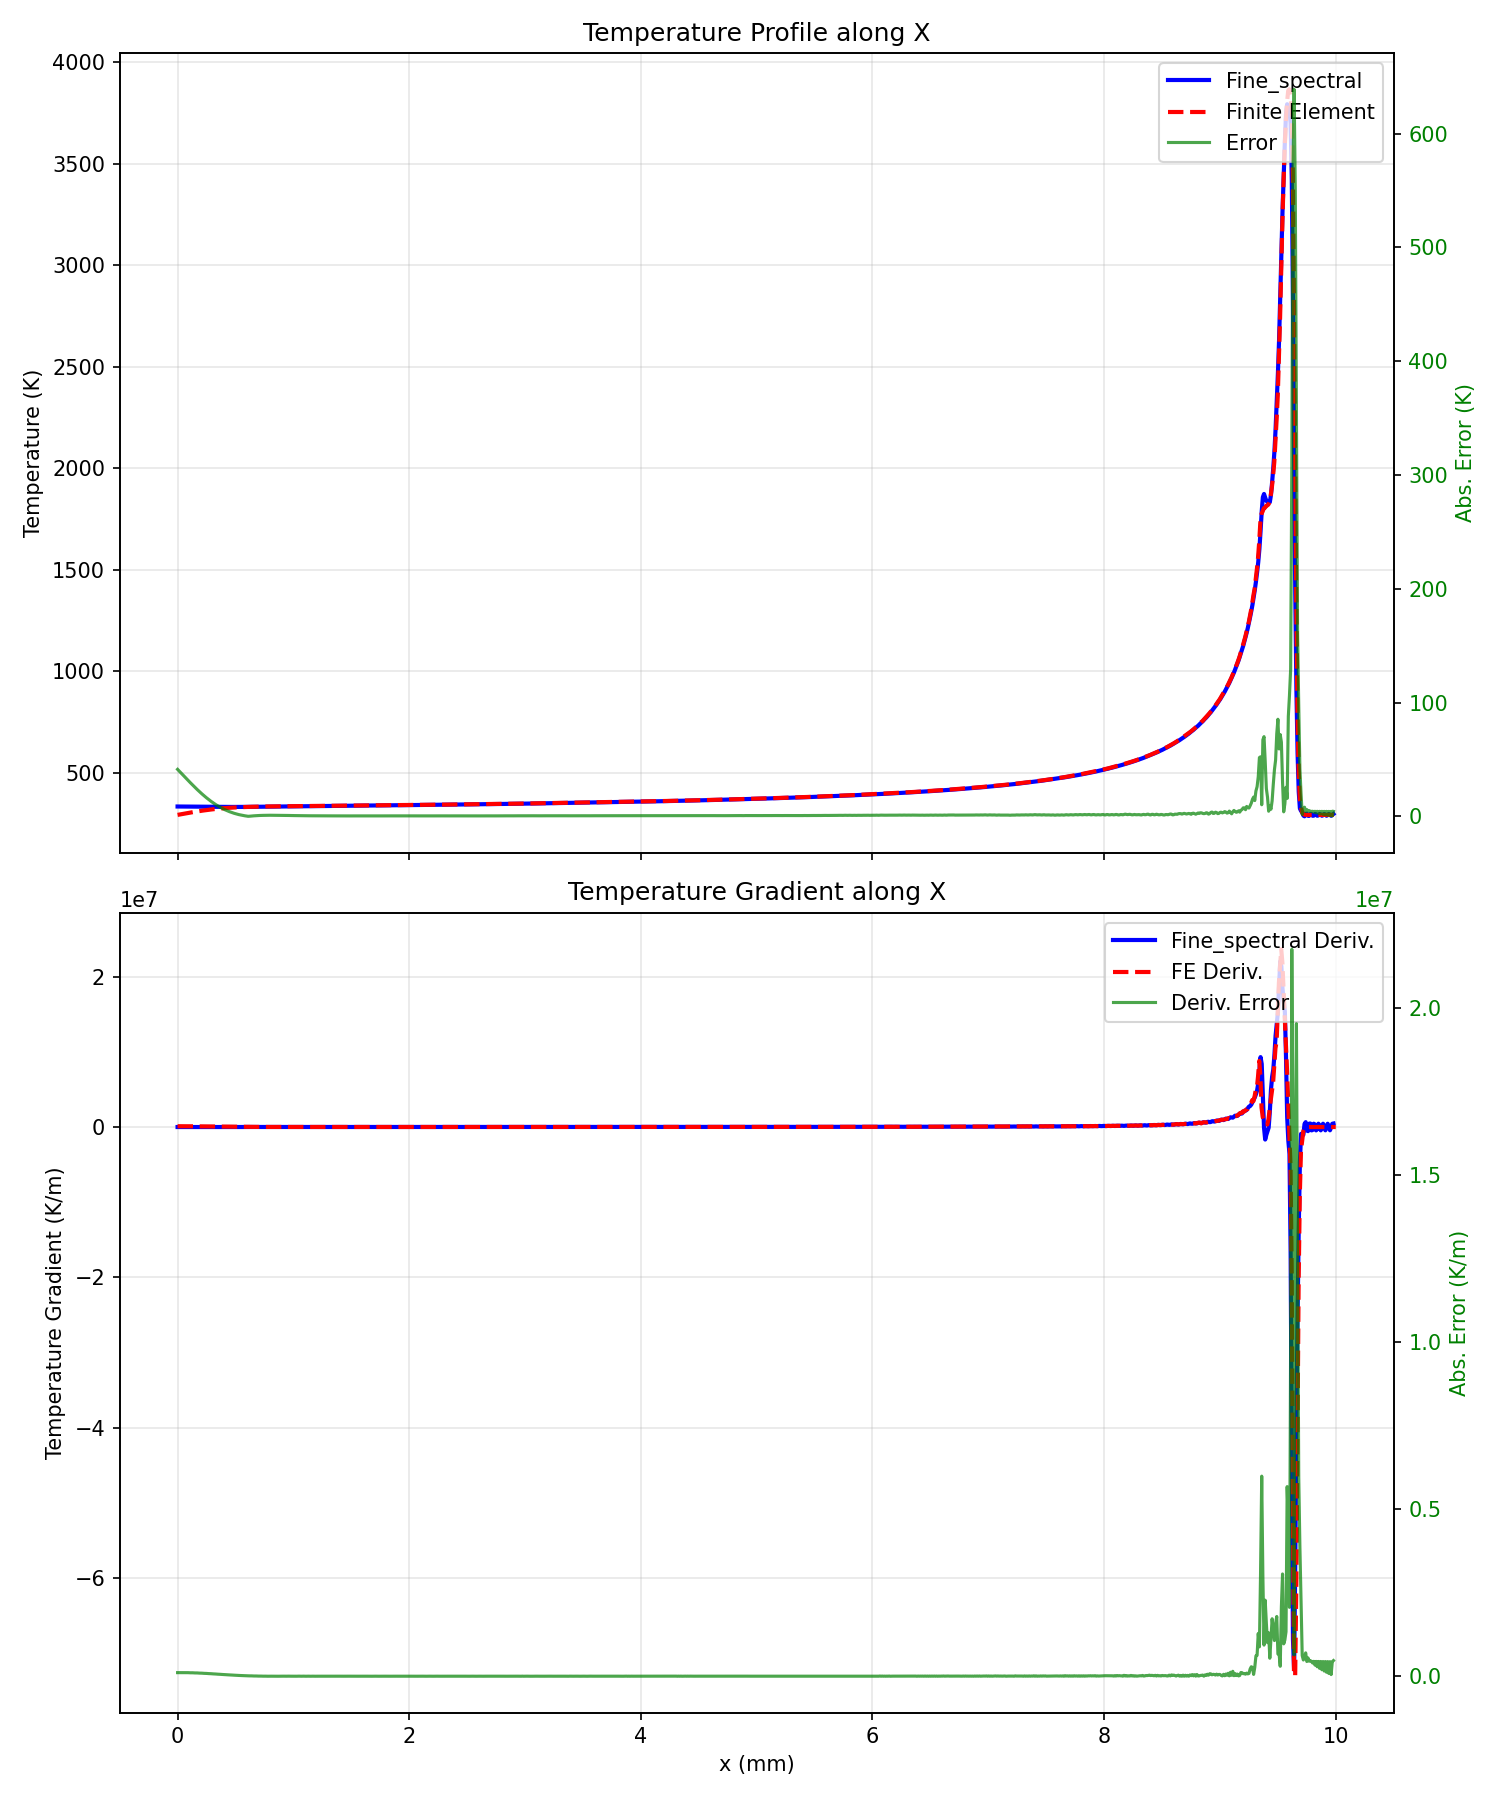
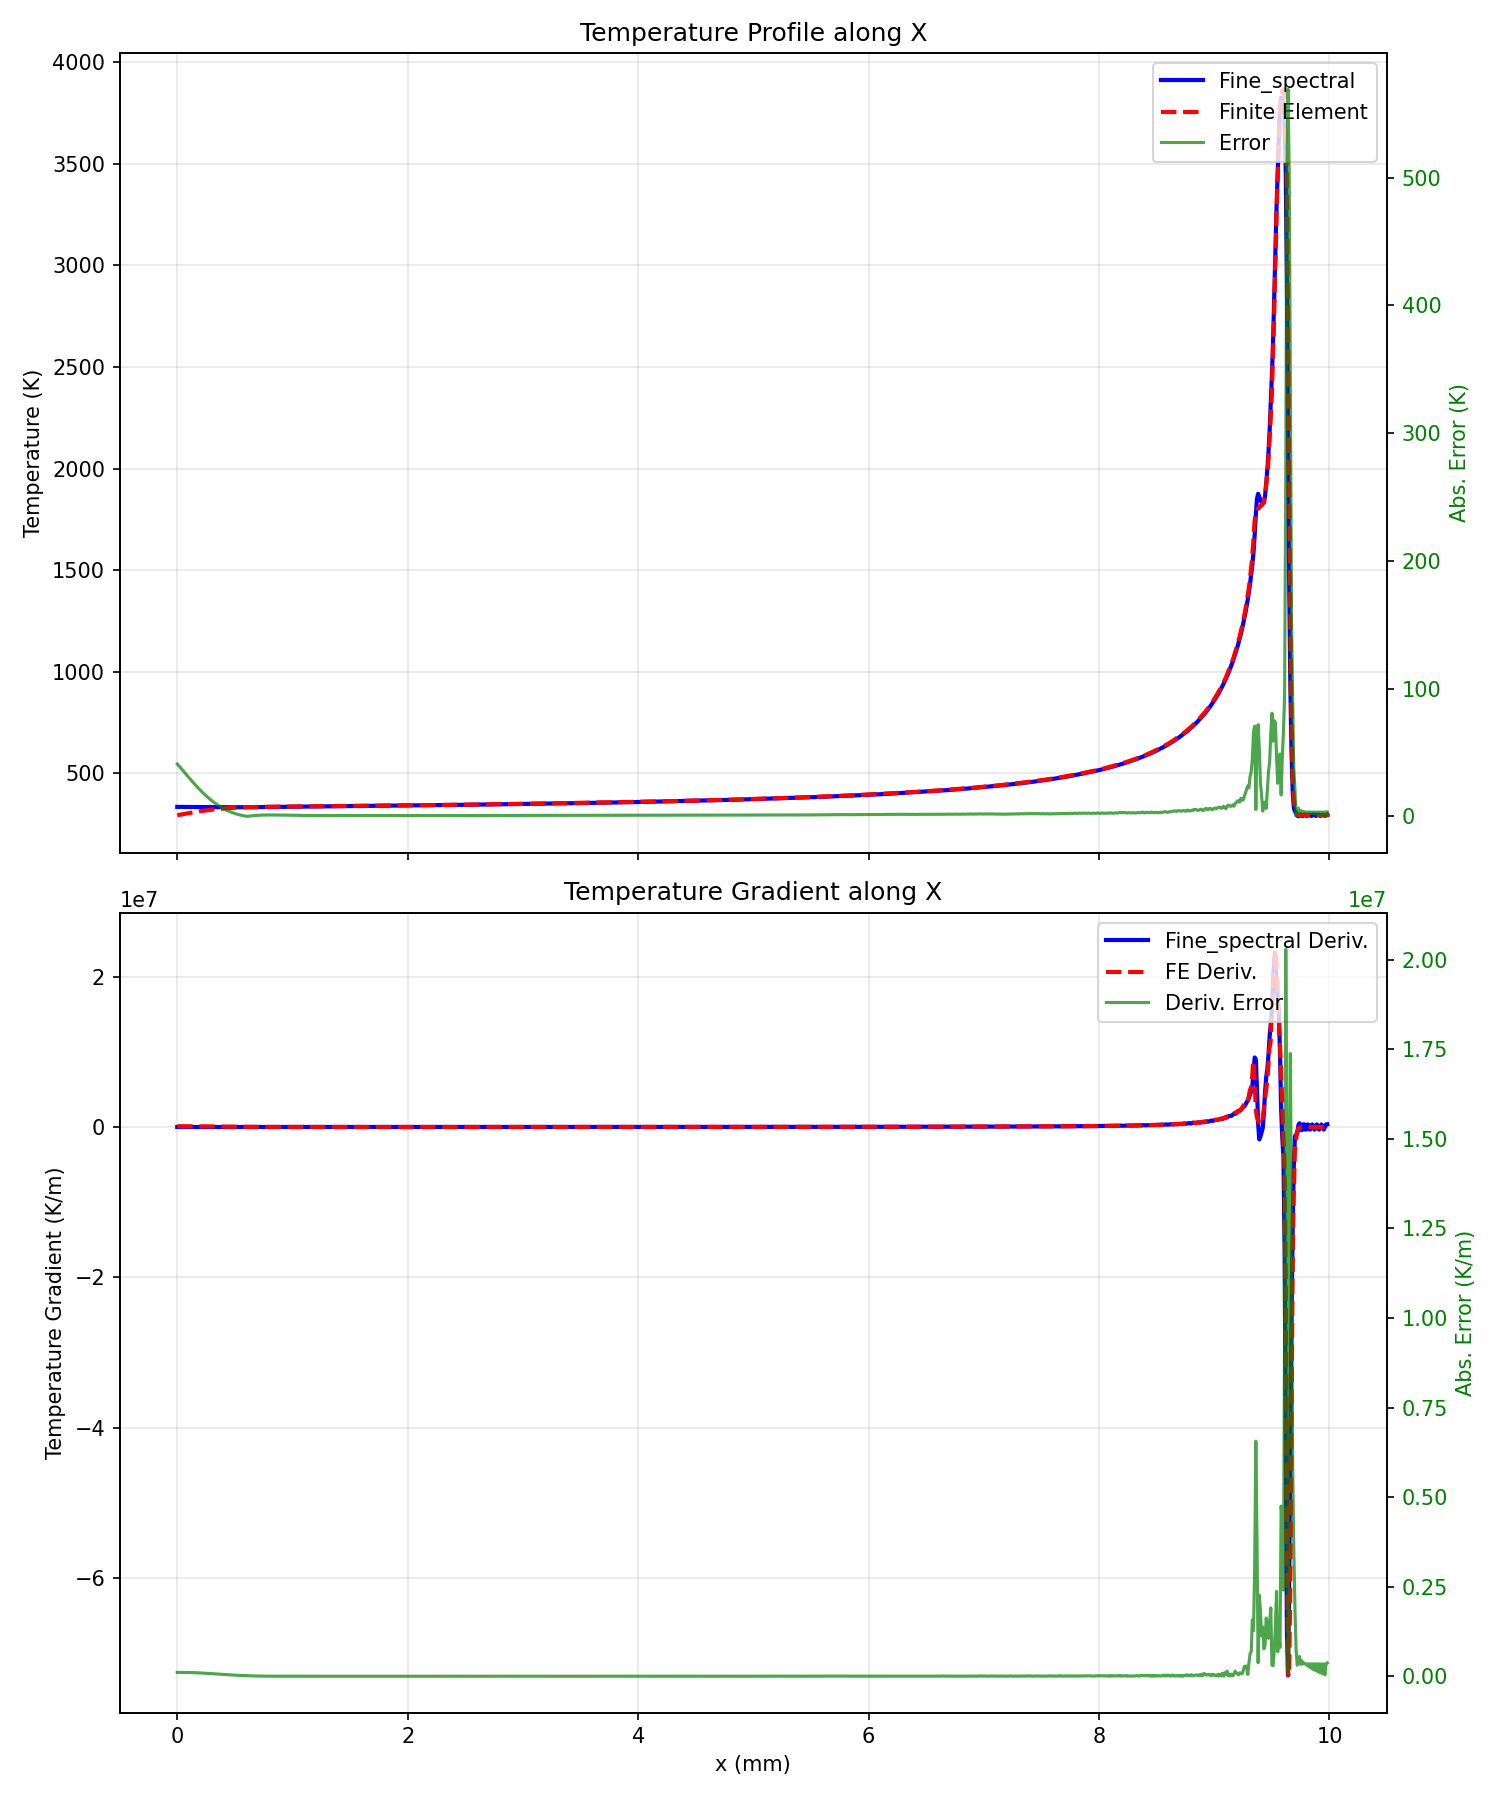
changed save temp

diff --git a/helpers.py b/helpers.py
@@ -499,88 +499,79 @@ def save_temp_profiles(a, num, geom, phys, laser, t=None, center="laser"):
     """
     Save 1D temperature profiles intersecting at the specified center.
     Coordinates generated start at 0.0 (aligned with save_temp_profiles_fine).
+    Using explicit tensor contraction for speed.
     """
     t = num.t_final if t is None else t
     
-    # 1. Determine Center Coordinates
+    # 1. Coordinate Arrays (Explicit float64 for safety)
+    x_line = np.linspace(0.0, geom.Lx, num.nx, dtype=np.float64)
+    y_line = np.linspace(0.0, geom.Ly, num.ny, dtype=np.float64)
+    z_line = np.linspace(0.0, geom.Lz, num.nz, dtype=np.float64)
+
+    # 2. Determine Center Coordinates
     if center == "hotspot":
-        # We need a rough estimate, fast reconstruction of top
-        T_top = reconstruct_temperature_top(a, num, geom)
-        iy_idx, ix_idx = np.unravel_index(np.argmax(T_top), T_top.shape)
-        # Convert index to coordinate (cell centers roughly or explicit)
-        x_center = geom.x[ix_idx] if hasattr(geom, 'x') else (ix_idx + 0.5) * geom.dx
-        y_center = geom.y[iy_idx] if hasattr(geom, 'y') else (iy_idx + 0.5) * geom.dy
+        # Simplified: Fallback to center of domain if hotspot logic not robust without full reconstruct
+        # Ideally would scan low-res modes, but let's stick to laser or center-of-domain
+         x_center, y_center = 0.5 * geom.Lx, 0.5 * geom.Ly
     elif center == "laser":
         x_center, y_center = float(laser.x), float(laser.y)
     else:
-        raise ValueError(f"Unknown center option: {center}")
+        # Fallback for manual coords if passed as tuple?
+        if isinstance(center, (tuple, list, np.ndarray)):
+            x_center, y_center = float(center[0]), float(center[1])
+        else:
+            raise ValueError(f"Unknown center option: {center}")
 
-    # For z_center, we usually take the top surface z=0 (or geom.z[-1] if z is depth?)
-    # Assuming z goes 0..Lz (bottom to top? or top to bottom?). 
-    # Usually laser is at top. Let's find z index closest to top or use 0 if surface.
-    # Standard assumption here: surface is at top? Or z=0 is top?
-    # Based on earlier code, we usually plot vs z. We need to find the z-profile at (x_c, y_c).
-    # We will compute the profile along Z, so we don't need a z_center for the Z-plot.
-    # For X and Y plots, we take z_top.
-    z_coords = np.linspace(0.0, geom.Lz, num.nz)
-    z_top = z_coords[-1] # Assume top is last index, or use z=0? 
-    # Check physics: usually Z is depth or height. If laser is on surface.
-    # Let's assume z at local max abs coordinate is surface.
-    
-    # 2. Linear Coordinates starting at 0 (Node-based for plotting)
-    # matching the resolution
-    x_line = np.linspace(0.0, geom.Lx, num.nx)
-    y_line = np.linspace(0.0, geom.Ly, num.ny)
-    z_line = np.linspace(0.0, geom.Lz, num.nz)
+    # Determine Z level for X/Y cuts
+    # Assuming laser source is at z=0 (based on box_z used in latent heat)
+    z_top = 0.0 
 
     # 3. Helpers for Basis Evaluation
-    def eval_basis(N, L, vals):
-        # (N, len(vals))
+    def eval_cos(N, L, vals):
+        """Evaluate cos(k*pi*x/L) for all k=0..N-1 and given vals."""
+        # ids shape: (N, 1)
         ids = np.arange(N, dtype=np.float64)[:, None]
+        # vals shape: (1, M)
+        # Returns (N, M)
         return np.cos(np.pi * ids * vals[None, :] / L)
 
-    # Precompute scalars for the fixed axes
-    # Basis vectors at center point (N,)
-    phi_x_c = eval_basis(num.nx, geom.Lx, np.array([x_center])).flatten() # (nx,)
-    phi_y_c = eval_basis(num.ny, geom.Ly, np.array([y_center])).flatten() # (ny,)
-    phi_z_c = eval_basis(num.nz, geom.Lz, np.array([z_top])).flatten()    # (nz,)
+    # Precompute basis vectors at intersection point (x_c, y_c, z_c)
+    # Shapes: (Nx,), (Ny,), (Nz,)
+    phi_x_c = eval_cos(num.nx, geom.Lx, np.array([x_center], dtype=np.float64)).flatten()
+    phi_y_c = eval_cos(num.ny, geom.Ly, np.array([y_center], dtype=np.float64)).flatten()
+    phi_z_c = eval_cos(num.nz, geom.Lz, np.array([z_top], dtype=np.float64)).flatten()
 
-    # Normalize coefficients C (apply them to the phi vectors for dotting)
-    # This prepares the specific 1D slice kernels
-    # C coefficients are: geom.Cm, geom.Cn, geom.Cp
+    # Pre-multiply by Normalization Coefficients C_k
+    # Effective projection vector K = C_k * phi_c
     Kx_c = phi_x_c * geom.Cm
     Ky_c = phi_y_c * geom.Cn
     Kz_c = phi_z_c * geom.Cp
 
-    # --- X Profile (y=y_c, z=z_top) ---
-    # Contract Y and Z
-    # T(x) = sum_m (sum_n sum_p a[p,n,m] * Kz[p] * Ky[n]) * phi_m(x) * Cm[m]
-    # Contract Z first: a (nz, ny, nx) . Kz (nz) -> (ny, nx)
+    # --- X Profile ( at y=y_c, z=z_top ) ---
+    # T(x) = sum_m [ sum_n sum_p a_pnm * Kz_p * Ky_n ] * (Cm_m * cos_m(x))
+    # 1. Contract Z (axis 0 of a): Result (ny, nx)
     a_yx = np.tensordot(a, Kz_c, axes=(0, 0)) 
-    # Contract Y: (ny, nx) . Ky (ny) -> (nx)
-    a_x = np.dot(Ky_c, a_yx) 
-    # Evaluate along line
-    # Basis for line: (nx, nx_points)
-    Bx_line = eval_basis(num.nx, geom.Lx, x_line)
-    # T_x = (a_x * Cm) @ Bx_line
+    # 2. Contract Y (axis 0 of a_yx): Result (nx,)
+    a_x = np.dot(Ky_c, a_yx)
+    # 3. Evaluate along line
+    Bx_line = eval_cos(num.nx, geom.Lx, x_line) # (nx, points)
     T_x = (a_x * geom.Cm) @ Bx_line
 
-    # --- Y Profile (x=x_c, z=z_top) ---
-    # T(y) = sum_n (sum_m sum_p a[p,n,m] * Kz[p] * Kx[m]) * phi_n(y) * Cn[n]
-    # Use a_yx from before (Contracted Z)
-    # Contract X: a_yx (ny, nx) . Kx (nx) -> (ny)
+    # --- Y Profile ( at x=x_c, z=z_top ) ---
+    # Use a_yx from above
+    # 1. Contract X (axis 1 of a_yx): Result (ny,)
     a_y = np.dot(a_yx, Kx_c)
-    By_line = eval_basis(num.ny, geom.Ly, y_line)
+    # 2. Evaluate along line
+    By_line = eval_cos(num.ny, geom.Ly, y_line)
     T_y = (a_y * geom.Cn) @ By_line
 
-    # --- Z Profile (x=x_c, y=y_c) ---
-    # Contract X and Y
-    # T(z) = sum_p (sum_n sum_m a[p,n,m] * Ky[n] * Kx[m]) * phi_p(z) * Cp[p]
-    # Contract X first on a: a (nz, ny, nx) . Kx (nx) -> (nz, ny)
+    # --- Z Profile ( at x=x_c, y=y_c ) ---
+    # 1. Contract X (axis 2 of a): Result (nz, ny)
     a_zy = np.tensordot(a, Kx_c, axes=(2, 0))
-    # Contract Y: (nz, ny) . Ky (ny) -> (nz)
+    # 2. Contract Y (axis 1 of a_zy): Result (nz,)
     a_z = np.dot(a_zy, Ky_c)
-    Bz_line = eval_basis(num.nz, geom.Lz, z_line)
+    # 3. Evaluate along line
+    Bz_line = eval_cos(num.nz, geom.Lz, z_line)
     T_z = (a_z * geom.Cp) @ Bz_line
 
     # 4. Save

diff --git a/test_speed_spectral.py b/test_speed_spectral.py
@@ -94,7 +94,7 @@ class GeomParams:
         self.laser_coef = laser.Absorptivity * 2.0 * laser.P / (np.pi * laser.r_b ** 2)
         
         # Fine mesh setup for latent heat correction
-        self.refinement = 7
+        self.refinement = 4
         self.Lx_box, self.Ly_box, self.Lz_box = 1e-3, 0.25e-3, 0.1e-3
         self.dx_fine, self.dy_fine, self.dz_fine = self.dx/self.refinement, self.dy/self.refinement, self.dz/self.refinement
         
@@ -386,9 +386,9 @@ def run_simulation(phys, num, geom, laser):
 if __name__ == "__main__":
     # Simulation parameters
     Lx, Ly, Lz = 0.01, 0.005, 0.0025
-    nx, ny, nz = 512, 256, 1500
+    nx, ny, nz = 512, 256, 1600
     dt = 6.0e-6
-    t_final = 1.2e-2
+    t_final = 1.2e-4
     # Material properties
     rho = 7850.0
     Cp = 500.0
